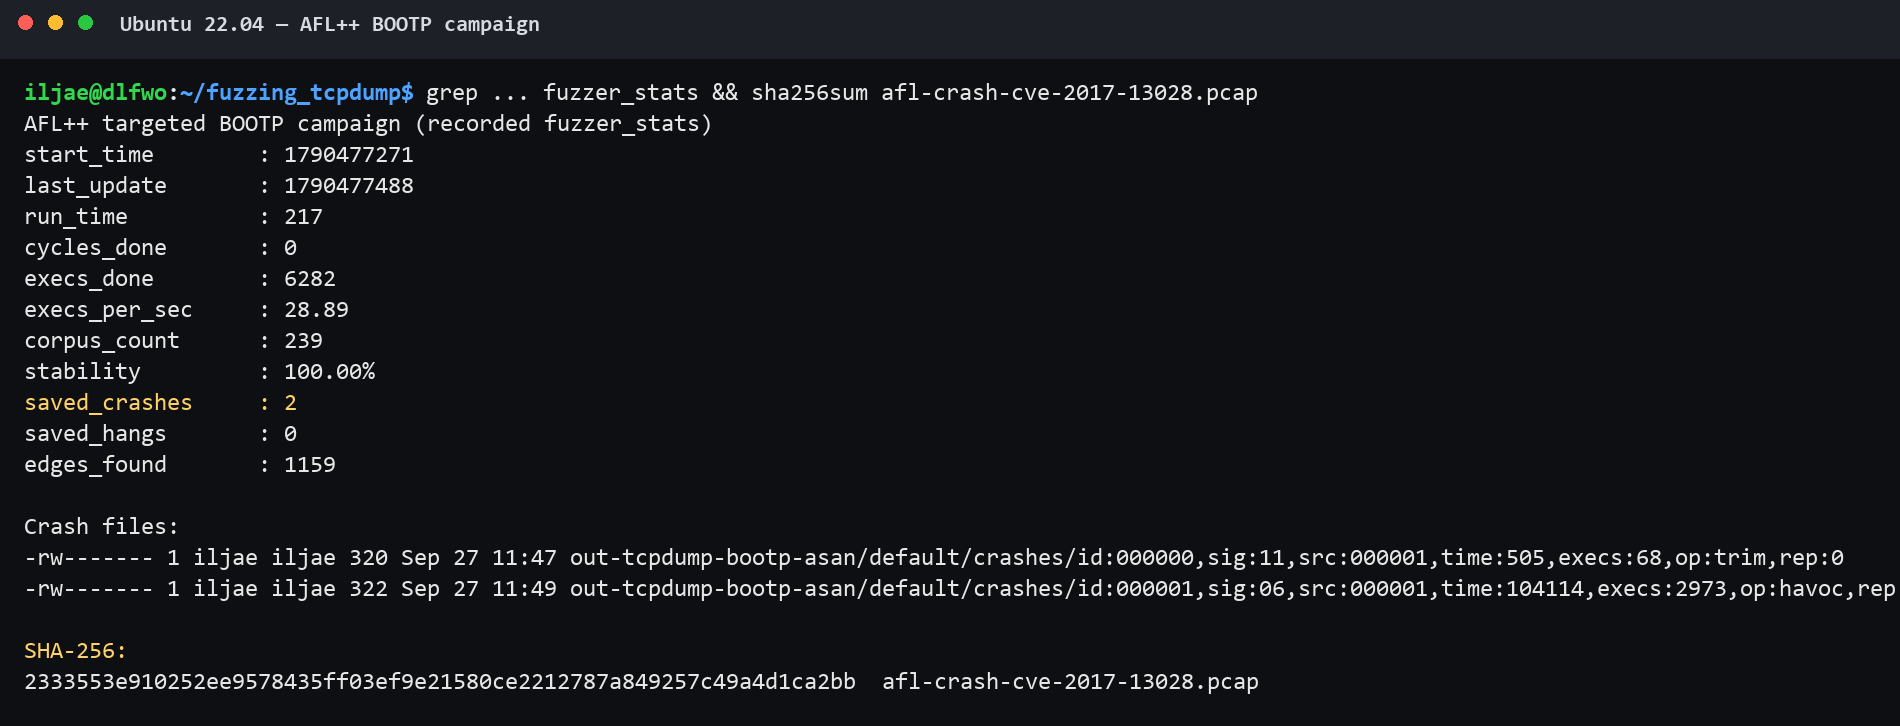
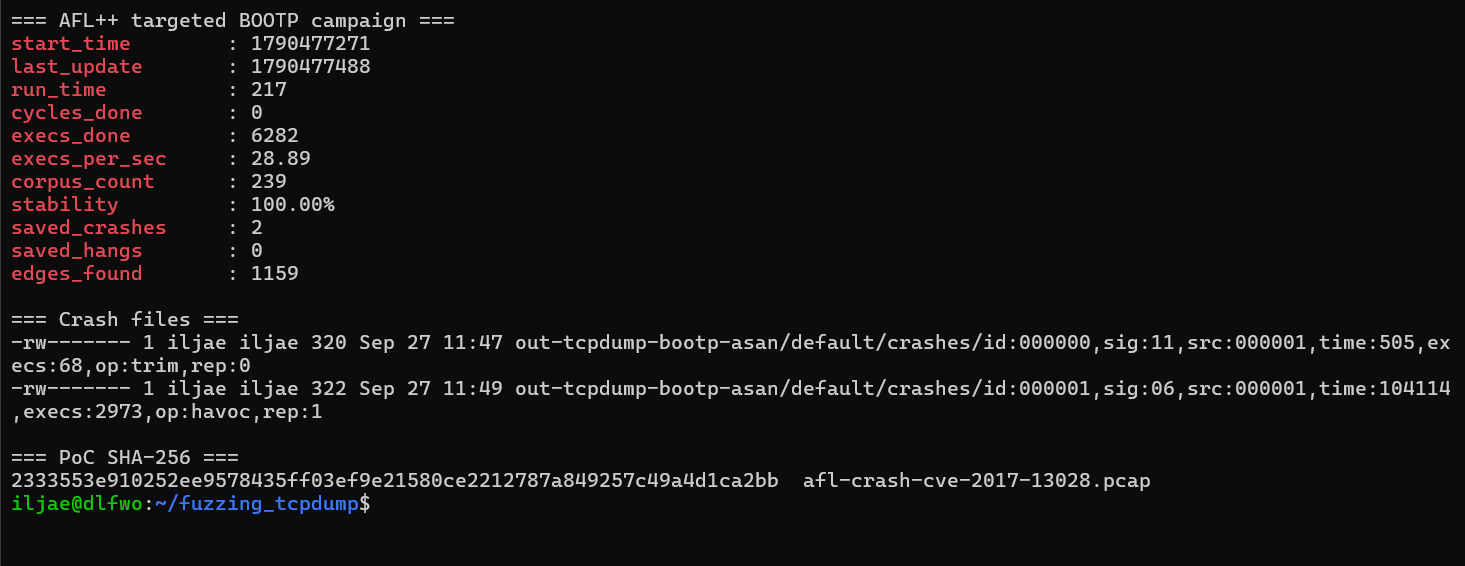
docs: update _config.yml

Changed region(s): [[0.0, 0.0, 1.0, 0.9611]]

diff --git a/_posts/2026-09-27-fuzzing101-three-exercises.md b/_posts/2026-09-27-fuzzing101-three-exercises.md
@@ -7,8 +7,11 @@ tags: [fuzzing, aflplusplus, asan, gdb, xpdf, libexif, tcpdump, cve, mission23]
 
 ## 1. 시작하며
 
-[Fuzzing101](https://github.com/antonio-morales/Fuzzing101)의 앞 세 문제를 WSL에서 풀었다. 파일 파서인 Xpdf, 라이브러리인 libexif, 네트워크 패킷 파서인 TCPdump를 각각 AFL++로 계측하고, 나온 크래시를 GDB와 AddressSanitizer(ASan)로 분석했다.
-- 여담으로 이 문제를 풀던 시기가 추석이였기에, 중간중간 문제 푸는 흐름이 강제로 멈춰서 상당히 힘들었다...
+[Fuzzing101](https://github.com/antonio-morales/Fuzzing101)의 앞 세 문제를 WSL에서 직접 풀어보았다. 퍼징의 개념과 AFL++의 기본 사용법은 이전부터 알고 있었고, 개인적으로 작은 프로그램에 재미 삼아 퍼저를 돌려본 적도 있었다. 다만 환경 구축부터 타겟 분석, 크래시 분류와 수정 버전 검증까지 한 흐름으로 정리해 본 것은 이번이 처음이었다.
+
+이번에는 파일 파서인 Xpdf, 라이브러리인 libexif, 네트워크 패킷 파서인 TCPdump를 각각 AFL++로 계측하고, 나온 크래시를 GDB와 AddressSanitizer(ASan)로 확인했다.
+
+마침 실습 기간이 추석과 겹쳐 중간중간 흐름이 끊겼다. 그래도 단순히 AFL 화면에서 크래시 숫자만 확인하지 않고, 왜 죽었는지와 수정 버전에서는 어떻게 처리되는지까지 보는 것을 목표로 했다.
 
 목표는 크래시 숫자를 만드는 데서 끝내지 않고 다음 흐름을 한 번씩 완주하는 것이었다.
 
@@ -40,7 +43,7 @@ CC=clang CFLAGS="-O1 -g -fsanitize=address -fno-omit-frame-pointer" \
 LDFLAGS="-fsanitize=address" ./configure
 ```
 
-처음에는 Xpdf를 ASan과 AFL 계측을 동시에 적용해 실행했다. 결과는 테스트 입력을 받기도 전에 signal 11로 죽었고 커버리지 튜플도 0이었다.
+처음에는 Xpdf에 ASan과 AFL 계측을 한꺼번에 적용했다. 그런데 테스트 입력을 받기도 전에 signal 11로 죽었고 커버리지 튜플도 0이었다.
 
 ![ASan과 AFL forkserver 조합이 시작 단계에서 충돌한 화면](/assets/img/fuzzing101-three-exercises/01-initial-instrumentation-crash.png)
 _크래시가 잡혔다고 성공이 아니다. 입력 실행 전에 죽었고 커버리지도 0이므로 잘못된 환경이다._
@@ -65,7 +68,7 @@ export AFL_I_DONT_CARE_ABOUT_MISSING_CRASHES=1
 
 목표인 CVE-2019-13288은 조작된 PDF 객체 참조가 `Parser::getObj()` 계열의 무한 재귀를 만들고, 스택이 소진되면서 서비스 거부를 일으키는 취약점이다.
 
-큰 PDF 여러 개보다 작은 유효 PDF 하나가 변이 속도에 유리했다. 678바이트 `helloworld.pdf`를 최소 코퍼스로 사용하고 고정 시드 123으로 실행했다.
+처음에는 PDF를 여러 개 넣었지만 파일이 클수록 실행 속도가 눈에 띄게 떨어졌다. 결국 678바이트짜리 `helloworld.pdf` 하나만 남기고 고정 시드 123으로 실행했다.
 
 ```bash
 AFL_SKIP_CPUFREQ=1 $HOME/AFLplusplus/afl-fuzz \
@@ -184,7 +187,7 @@ _8바이트로 할당된 영역의 끝보다 3바이트 뒤를 읽었다._
 ![libexif 0.6.21 수정 검증](/assets/img/fuzzing101-three-exercises/14-libexif-fixed-0.6.21.png)
 _세 입력 모두 종료 코드 0, ASan 오류 0건._
 
-이 문제에서 가장 크게 배운 점은 라이브러리 퍼징의 범위가 하네스가 호출하는 API로 결정된다는 것이다. `exif_data_fix()`를 호출하지 않았다면 퍼저를 오래 돌려도 CVE-2009-3895 경로에는 도달하지 못한다.
+이 과정에서 하네스가 단순한 입력 전달 코드가 아니라는 점을 확실히 알게 되었다. `exif_data_fix()`를 호출하지 않았다면 퍼저를 아무리 오래 돌려도 CVE-2009-3895 경로에는 도달하지 못했을 것이다.
 
 ## 5. Exercise 3 — TCPdump와 CVE-2017-13028
 
@@ -201,7 +204,7 @@ ASan build coverage: 891 tuples
 AFL-only build coverage: 471 tuples
 ```
 
-처음에는 저장소의 PCAP 379개를 전부 넣어 4시간, 약 800만 회를 실행했지만 크래시는 0개였다. 여기서 더 기다리지 않고 공식 수정 diff와 입력 구조를 분석했다.
+처음에는 저장소의 PCAP 379개를 전부 넣고 4시간 동안 약 800만 회를 실행했다. 그런데 크래시는 하나도 나오지 않았다. 무작정 더 기다리는 대신 공식 수정 diff와 PCAP 입력 구조부터 다시 살펴보았다.
 
 ### 5.2 왜 크래시가 안 나왔는가
 
@@ -260,11 +263,11 @@ udp_print → ip_print_demux → ip_print → ether_print
 ![TCPdump CVE-2017-13028 ASan 보고서](/assets/img/fuzzing101-three-exercises/16-tcpdump-cve-2017-13028-asan.png)
 _281바이트 heap 영역의 바로 다음 주소에서 4바이트를 읽었다._
 
-원인은 “경계 검사가 없음”보다 “검사 크기가 실제 사용 크기보다 작음”에 가깝다. 1바이트가 존재한다는 사실은 그 위치부터 4바이트를 읽어도 된다는 뜻이 아니다.
+처음에는 단순한 경계 검사 누락이라고 생각했지만, 정확히는 검사한 크기와 실제로 읽는 크기가 달랐다. 1바이트가 존재한다고 해서 그 위치부터 4바이트를 읽어도 되는 것은 아니었다.
 
 ### 5.5 공식 수정 확인
 
-공식 수정은 검사 대상을 vendor 배열의 첫 요소에서 magic cookie 전체 4바이트로 넓힌다. 같은 PoC를 수정 커밋 이후 빌드에 입력하면 ASan 오류 없이 잘린 BOOTP 패킷으로 처리하고 정상 종료한다.
+공식 수정은 검사 대상을 vendor 배열의 첫 요소에서 magic cookie 전체 4바이트로 넓힌다. 같은 PoC를 수정 커밋 이후 일반 Clang 빌드에 입력하면 크래시 없이 잘린 BOOTP 패킷으로 처리하고 정상 종료한다.
 
 ![TCPdump 취약 버전과 수정 버전 비교](/assets/img/fuzzing101-three-exercises/17-tcpdump-fixed-comparison.png)
 _취약 버전은 heap-buffer-overflow, 수정 버전은 경계에서 파싱을 중단한다._
@@ -290,9 +293,9 @@ _취약 버전은 heap-buffer-overflow, 수정 버전은 경계에서 파싱을 
 
 ## 7. 마치며
 
-처음에는 AFL 화면의 `saved crashes`가 1이 되면 문제가 끝난다고 생각했다. 실제 작업의 대부분은 그 다음이었다. 시작 단계 크래시와 진짜 입력 크래시를 구분하고, 여러 크래시를 원인별로 묶고, 하네스가 빠뜨린 API를 찾고, 아무것도 안 나올 때 입력 구조와 할당 방식을 다시 읽어야 했다.
+처음에는 AFL 화면의 `saved crashes`가 1이 되면 문제가 끝나는 줄 알았다. 막상 해 보니 실제 작업은 그다음부터였다. 시작 단계에서 발생한 오류와 진짜 입력 크래시를 구분해야 했고, 여러 크래시를 원인별로 묶어야 했다. 크래시가 나오지 않을 때는 퍼저만 계속 돌리는 것이 아니라 하네스와 입력 구조를 다시 봐야 했다.
 
-세 문제를 통해 커버리지 기반 퍼징의 전체 사이클을 경험했다. 가장 중요한 교훈은 “더 오래 돌리기” 전에 “이 입력과 하네스로 목표 경로에 도달할 수 있는가”를 확인해야 한다는 점이다.
+예전에는 퍼저를 가볍게 돌려보고 크래시가 잡히는 과정을 보는 것 자체가 재미있었다면, 이번에는 그 뒤의 분석 과정에 더 집중했다. 세 문제를 풀면서 환경 구축부터 크래시 분류와 수정 버전 확인까지 연결할 수 있었다. 가장 크게 느낀 점은 “더 오래 돌리기” 전에 “지금 만든 입력과 하네스로 목표 코드에 도달할 수 있는가”부터 확인해야 한다는 것이다.
 
 ## 8. 참고 자료
 
